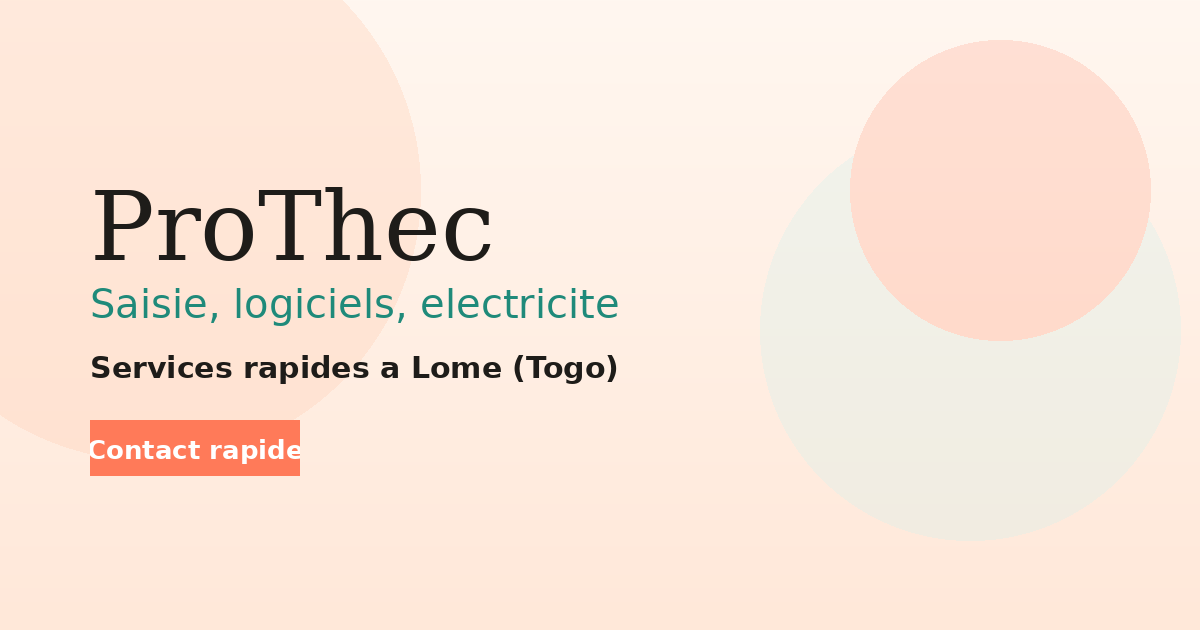
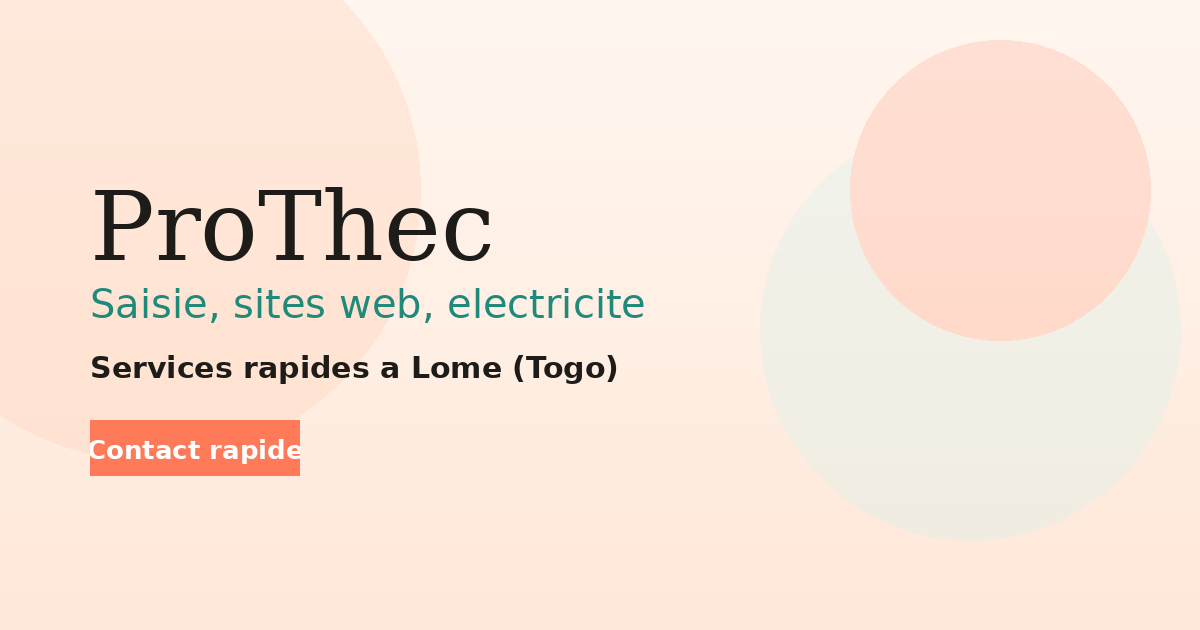
Add files via upload

Changed region(s): [[0.185, 0.4524, 0.555, 0.5127]]

diff --git a/index.html b/index.html
@@ -6,7 +6,7 @@
     <title>ProThec — Saisie, logiciels & électricité</title>
     <meta
       name="description"
-      content="ProThec à Lomé (Togo) : saisie informatique, installation de logiciels Windows/Linux, électricité bâtiment. Contact rapide."
+      content="ProThec, créateur de site web à Lomé (Togo) : saisie informatique, création de sites web, installation de logiciels Windows/Linux, électricité bâtiment. Contact rapide."
     />
     <meta name="robots" content="index, follow" />
     <link
@@ -21,7 +21,7 @@
     />
     <meta
       property="og:description"
-      content="ProThec à Lomé (Togo) : saisie informatique, installation de logiciels Windows/Linux, électricité bâtiment. Contact rapide."
+      content="ProThec, créateur de site web à Lomé (Togo) : saisie informatique, création de sites web, installation de logiciels Windows/Linux, électricité bâtiment. Contact rapide."
     />
     <meta property="og:type" content="website" />
     <meta
@@ -42,7 +42,7 @@
     />
     <meta
       name="twitter:description"
-      content="ProThec à Lomé (Togo) : saisie informatique, installation de logiciels Windows/Linux, électricité bâtiment. Contact rapide."
+      content="ProThec, créateur de site web à Lomé (Togo) : saisie informatique, création de sites web, installation de logiciels Windows/Linux, électricité bâtiment. Contact rapide."
     />
     <meta
       name="twitter:image"
@@ -60,7 +60,7 @@
         "@context": "https://schema.org",
         "@type": "ProfessionalService",
         "name": "ProThec",
-        "description": "Saisie informatique, installation de logiciels Windows/Linux, électricité bâtiment.",
+        "description": "Créateur de site web à Lomé : saisie informatique, création de sites web, installation de logiciels Windows/Linux, électricité bâtiment.",
         "areaServed": "Lomé, Togo",
         "address": {
           "@type": "PostalAddress",
@@ -106,12 +106,14 @@
         <div class="hero__content">
           <p class="eyebrow">Services informatiques & électricité</p>
           <h1>
-            ProThec vous accompagne pour la saisie informatique, l'installation
-            de logiciels Windows/Linux et l'électricité bâtiment.
+            ProThec vous accompagne pour la saisie informatique, la création de
+            sites web, l'installation de logiciels Windows/Linux et
+            l'électricité bâtiment.
           </h1>
           <p class="lead">
-            Basé à Lomé (Togo), ProThec propose un service rapide, clair et
-            efficace pour vos besoins numériques et électriques.
+            Créateur de site web à Lomé (Togo), ProThec propose un service
+            rapide, clair et efficace pour vos besoins numériques, web et
+            électriques.
           </p>
           <div class="hero__actions">
             <a class="btn btn--primary" href="#contact">Parler du projet</a>
@@ -121,6 +123,10 @@
             <div>
               <strong>Saisie informatique</strong>
               <span>Documents et tableaux</span>
+            </div>
+            <div>
+              <strong>Création web</strong>
+              <span>Sites vitrines pro</span>
             </div>
             <div>
               <strong>Windows & Linux</strong>
@@ -162,6 +168,13 @@
             </p>
           </article>
           <article class="service-card">
+            <h3>Création de site web</h3>
+            <p>
+              Créateur de site web à Lomé : sites vitrines modernes pour
+              présenter votre activité, vos services et vos contacts.
+            </p>
+          </article>
+          <article class="service-card">
             <h3>Installation logiciels</h3>
             <p>
               Installation, configuration et mise à jour de logiciels sous
@@ -182,8 +195,8 @@
         <div class="section-heading">
           <h2>Domaines d'intervention</h2>
           <p>
-            Des prestations adaptées aux particuliers comme aux petites
-            entreprises.
+            Des prestations adaptées aux particuliers, aux petites entreprises
+            et aux activités en ligne.
           </p>
         </div>
         <div class="domaines">
@@ -194,6 +207,14 @@
               loading="lazy"
             />
             <figcaption>Saisie & bureautique</figcaption>
+          </figure>
+          <figure class="domain-card">
+            <img
+              src="https://images.pexels.com/photos/34636338/pexels-photo-34636338.jpeg?cs=srgb&dl=pexels-mveckell-34636338.jpg&fm=jpg"
+              alt="Création de site web professionnelle"
+              loading="lazy"
+            />
+            <figcaption>Créateur de site web à Lomé</figcaption>
           </figure>
           <figure class="domain-card">
             <img
@@ -227,6 +248,11 @@
             <h3>Saisie informatique</h3>
             <p class="tarif-price">Sur devis</p>
             <p>Documents, tableaux, mise en page propre et rapide.</p>
+          </article>
+          <article class="tarif-card">
+            <h3>Création de site web</h3>
+            <p class="tarif-price">Sur devis</p>
+            <p>Créateur de site web à Lomé : design moderne, mise en ligne.</p>
           </article>
           <article class="tarif-card">
             <h3>Installation logiciels</h3>
@@ -265,8 +291,9 @@
         <div class="apropos__content">
           <h2>À propos de ProThec</h2>
           <p>
-            ProThec est spécialisé dans la saisie informatique, l'installation
-            de logiciels sur Windows et Linux, ainsi que l'électricité bâtiment.
+            ProThec est spécialisé dans la saisie informatique, la création de
+            sites web, l'installation de logiciels sur Windows et Linux, ainsi
+            que l'électricité bâtiment.
           </p>
           <ul class="apropos__list">
             <li>Interventions rapides à Lomé</li>
@@ -294,6 +321,13 @@
             <p>
               Les logiciels courants (bureautique, utilitaires, sécurité) sur
               Windows et Linux.
+            </p>
+          </div>
+          <div class="faq__item">
+            <h3>Faites-vous des sites web ?</h3>
+            <p>
+              Oui, création de sites web simples, rapides et adaptés à votre
+              activité à Lomé.
             </p>
           </div>
           <div class="faq__item">
